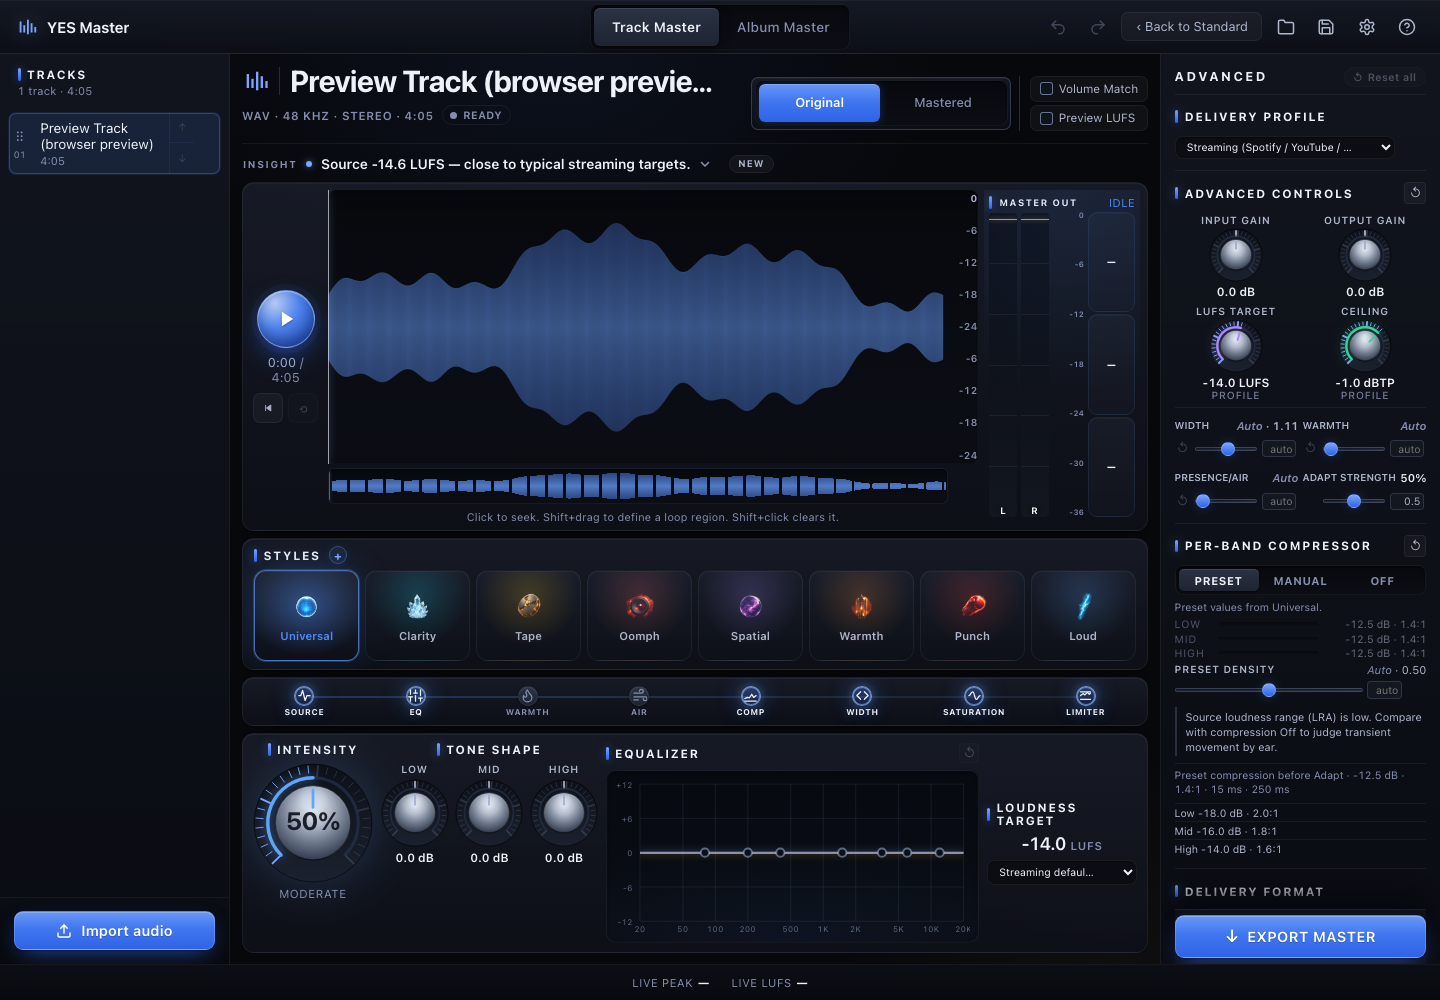
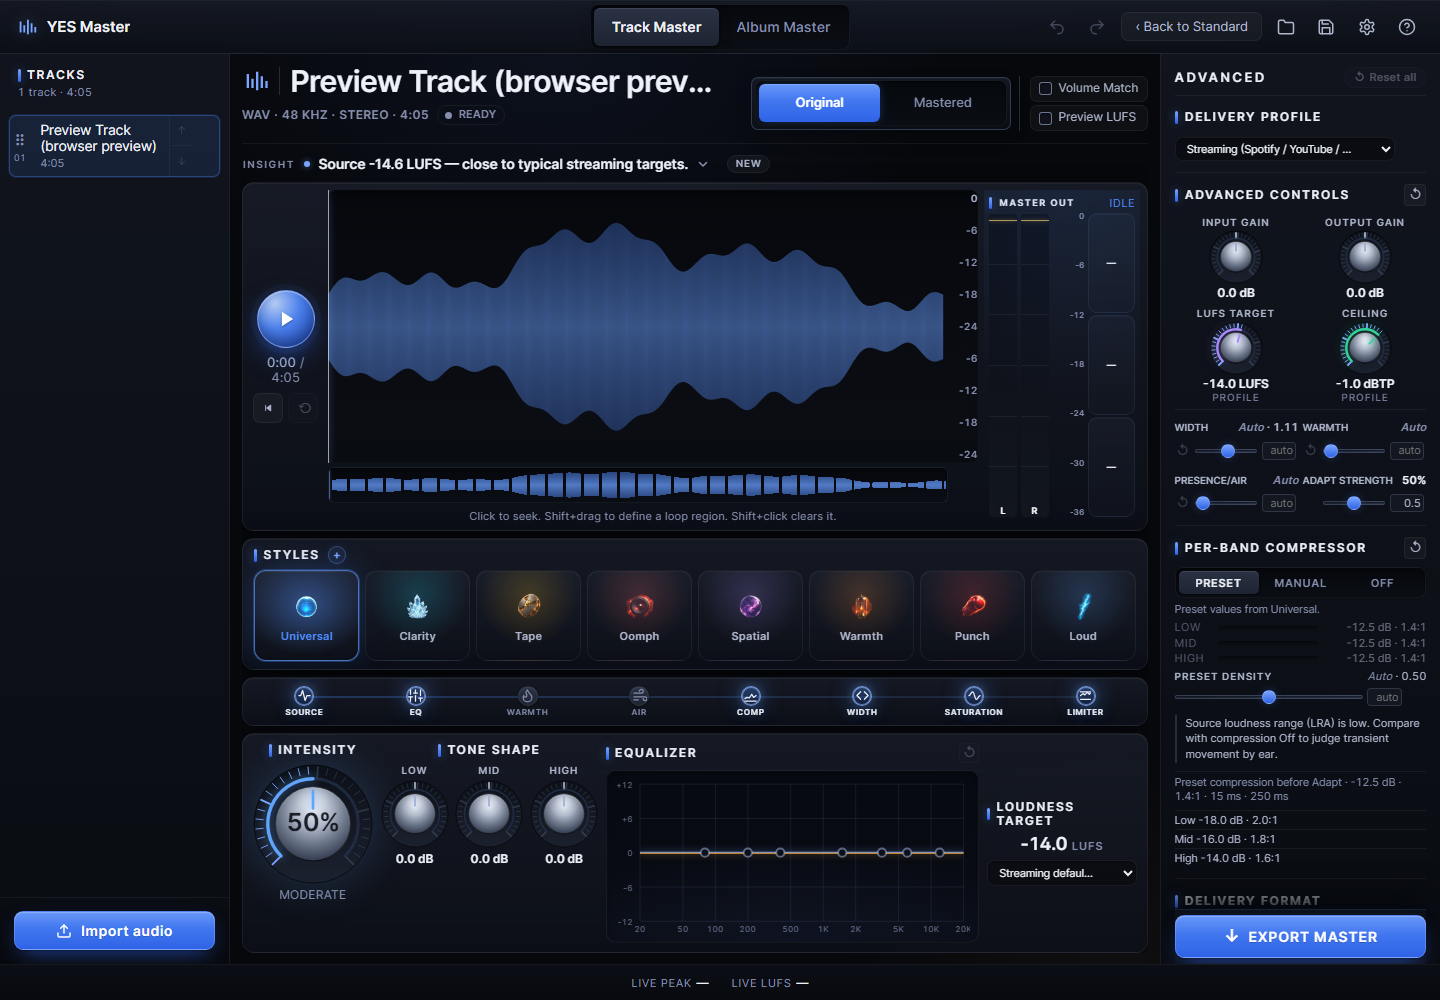
perf: build waveform bars once per track
The main and overview waveforms draw about 1,200 clip rects each, 88% of
the app's DOM. They only depend on the track's peaks, but were rebuilt
on every playback tick. A memoized bars component now skips them while
the playhead moves. The rendered output is unchanged.

Landing captures are refreshed for this and the two preceding commits'
capture inputs. The regenerated PNGs are pixel-identical to the previous
captures; only their encoded bytes differ.

In the browser preview (development build, Advanced view) main-thread
work during playback fell from about 620 ms to 392 ms per second.

diff --git a/src/components/Waveform.tsx b/src/components/Waveform.tsx
@@ -1,4 +1,5 @@
 import {
+  memo,
   useEffect,
   useId,
   useRef,
@@ -269,15 +270,7 @@ export function WaveformView({
             played sheet cut at the playhead — so the heard span lights up
             without duplicating the peak DOM or fighting CSS in a <use>
             shadow tree. */}
-        <clipPath id="wf-bars-clip">
-          {channel.map((v, i) => {
-            const x = (i / channel.length) * W;
-            const barW = (W / channel.length) * 0.85;
-            const barH = v * (H * 0.88);
-            const y = (H - barH) / 2;
-            return <rect key={i} x={x} y={y} width={barW} height={barH} rx={0.5} />;
-          })}
-        </clipPath>
+        <WaveformBarsClip id="wf-bars-clip" channel={channel} width={W} height={H} fill={0.88} />
         <rect
           className="wf-sheet wf-sheet-unplayed"
           x={0}
@@ -402,15 +395,7 @@ function WaveformOverview({
       aria-valuenow={currentTimeSec}
     >
       <WaveformDefs prefix="wfo" />
-      <clipPath id="wfo-bars-clip">
-        {channel.map((v, i) => {
-          const x = (i / channel.length) * W;
-          const barW = (W / channel.length) * 0.85;
-          const barH = v * (H * 0.92);
-          const y = (H - barH) / 2;
-          return <rect key={i} x={x} y={y} width={barW} height={barH} rx={0.5} />;
-        })}
-      </clipPath>
+      <WaveformBarsClip id="wfo-bars-clip" channel={channel} width={W} height={H} fill={0.92} />
       <rect
         className="wf-sheet wf-sheet-unplayed"
         x={0}
@@ -450,6 +435,36 @@ function WaveformOverview({
     </svg>
   );
 }
+
+// The peak bars as a clip mask, one rect per peak (~1,200 per waveform).
+// Memoized on the peak data: the bars never change during playback, so the
+// playhead's 20-per-second ticks must not rebuild them (2026-09-22 review).
+const WaveformBarsClip = memo(function WaveformBarsClip({
+  id,
+  channel,
+  width,
+  height,
+  fill,
+}: {
+  id: string;
+  channel: number[];
+  width: number;
+  height: number;
+  /// Tallest bar as a fraction of the height.
+  fill: number;
+}) {
+  return (
+    <clipPath id={id}>
+      {channel.map((v, i) => {
+        const x = (i / channel.length) * width;
+        const barW = (width / channel.length) * 0.85;
+        const barH = v * (height * fill);
+        const y = (height - barH) / 2;
+        return <rect key={i} x={x} y={y} width={barW} height={barH} rx={0.5} />;
+      })}
+    </clipPath>
+  );
+});
 
 // Shared gradient defs for the main waveform ("wf") and the overview ("wfo").
 // Both SVGs are always mounted together, so the ids must differ per prefix.
